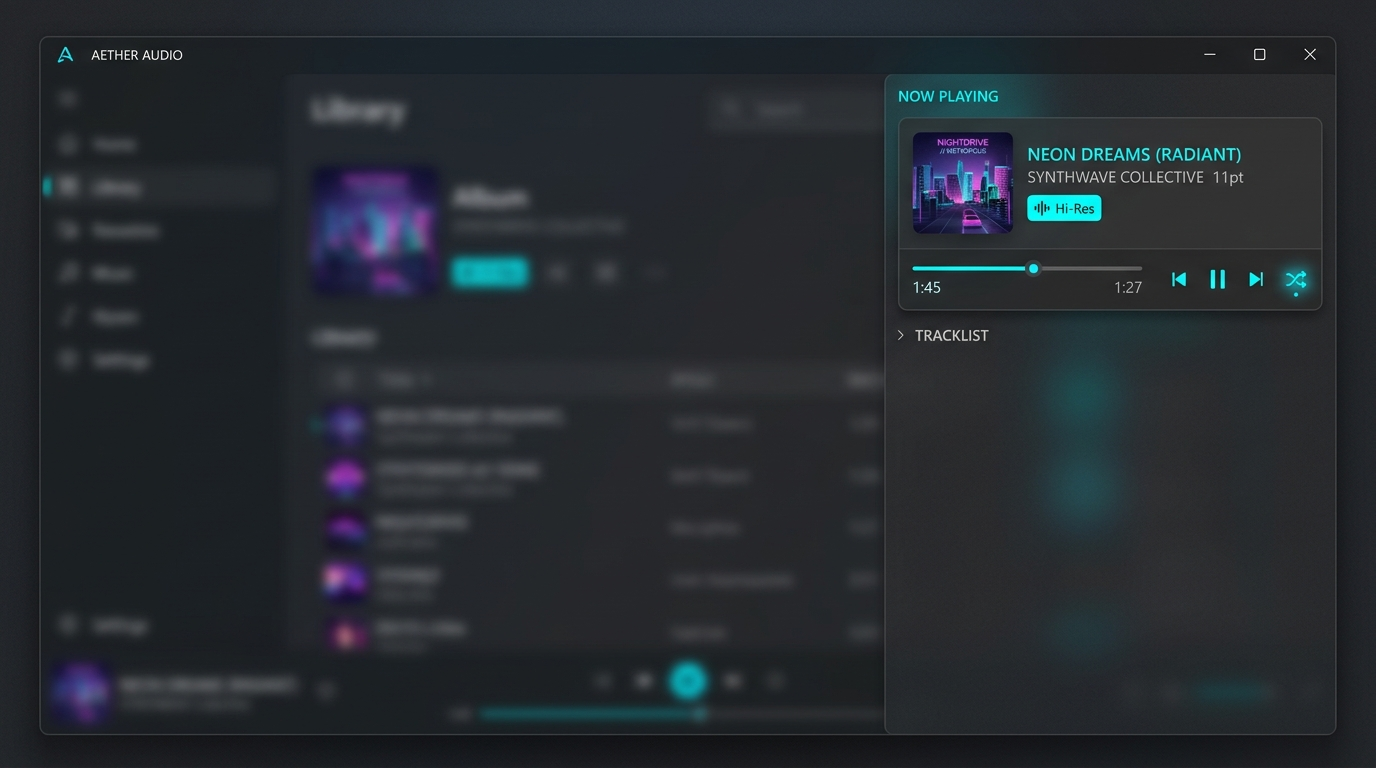
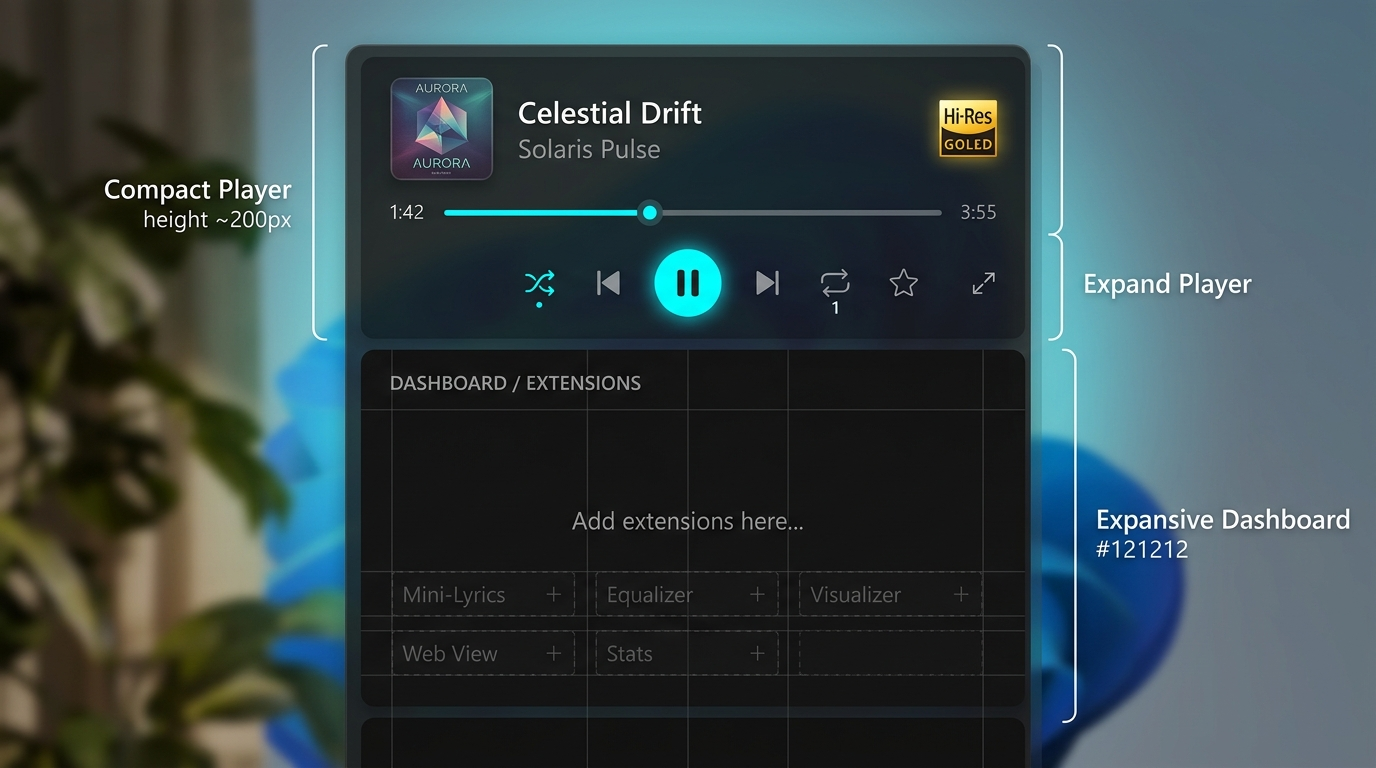
docs: 📝 #122 通常表示を廃止し、最大化⇄最小化の2段階切り替え仕様に更新

diff --git a/設計/機能仕様/右側アルバム情報表示サイズ切り替え機能.md b/設計/機能仕様/右側アルバム情報表示サイズ切り替え機能.md
@@ -1,78 +1,81 @@
 # 右側アルバム情報表示サイズ切り替え機能 仕様書
 
 ## 1. 機能概要
-「右側アルバム情報表示サイズ切り替え機能」は、メイン画面の右側パネルに表示されているアルバム情報・プレイヤー領域の表示サイズを、ユーザーの好みに応じてワンクリックで切り替える機能です。
-ユーザーは「通常表示」「最大化表示（全画面）」「最小化表示（コンパクト）」の3段階を切り替えることで、収録曲リストをじっくり確認したい時や、下半分の拡張タブ（今後追加されるリスニング統計やタグ管理など）を広く使いたい時など、用途に応じた最適なレイアウトで快適に音楽鑑賞・管理を行えます。
+「右側アルバム情報表示サイズ切り替え機能」は、メイン画面の右側パネルに表示されているアルバム情報・プレイヤー領域の表示サイズを、ユーザーの好みに応じてワンクリックで「最大化（全画面）」と「最小化（コンパクト）」の2段階に切り替える機能です。
+ユーザーはアルバム鑑賞に没頭したい時（最大化）と、下部の拡張タブ（今後追加されるリスニング統計やタグ管理など）を広大に使いたい時（最小化）をシンプルなトグル操作で瞬時に切り替え、快適に音楽鑑賞・管理を行えます。
 
 ---
 
 ## 2. ユーザー向け提供機能
 
-### 2.1. 3段階の表示モード切り替え
-右側パネル上部の操作ボタンをクリックすることで、以下の3つの表示モードを切り替えることができます。
+### 2.1. 2段階の表示モード切り替え（2値トグル）
+右側パネルの切り替えボタンをクリックすることで、以下の2つの表示モードを交互に切り替えることができます。
 
-- **通常表示（デフォルト）**
-  - 右側パネルの上半分にアルバム情報（ジャケット画像、タイトル、アーティスト名、品質情報、収録曲リスト、プレイヤーコントロール）を表示し、下半分に拡張情報タブ領域を表示します。
-  - 基本的なアルバム情報の閲覧と、下部の拡張機能の利用をバランスよく両立した標準レイアウトです。
-- **最大化表示（全画面）**
-  - 右側パネルの縦幅全体をアルバム情報・プレイヤー領域として使用します（下半分の拡張タブ領域は非表示・折りたたみ）。
+- **最大化表示（全画面モード）**
+  - 右側パネルの縦幅全体をアルバム情報・プレイヤー領域として使用します（下半分の拡張タブ領域は折りたたまれて非表示）。
   - パネル内は**左右2カラム構成**となり、左側に特大のアルバムアートと各種操作コントロール、右側に縦いっぱいのトラックリストを展開します。
-- **最小化表示（コンパクト）**
-  - 収録曲リストを非表示にし、アルバムアート、曲名・アーティスト名、音質情報（ハイレゾバッジ、ビットレート/サンプリング周波数等）、および基本的な再生コントロールのみを表示します。
-  - プレイヤーとしての最小限の情報を維持したまま高さを極小化し、下半分の拡張タブ領域を最大化して広々と利用できるようにします。
+  - アルバムの世界観に浸りながら全曲を一覧・選曲するのに最適なモードです。
+- **最小化表示（コンパクトモード）**
+  - トラックリストを非表示にし、アルバムアート、曲名・アーティスト名、音質情報（Hi-Resバッジ、ビットレート/サンプリング周波数等）、および楽曲操作コントロールのみを上部にコンパクトに表示します。
+  - プレイヤーとしての操作性や現在曲の視認性を100%維持したまま高さを極小化し、下半分の拡張タブ領域を最大化して広大なダッシュボードとして利用できるようにします。
 
 ---
 
-### 2.2. 最大化表示時の構成要素とプレイヤー機能
-最大化表示時は、画面の広さを活かして以下の要素を左右に効率よく配置します。
+### 2.2. 各表示モードの構成要素
 
-#### ① 左側領域（アートワーク・基本情報・楽曲操作コントロール）
-- **特大アルバムアート**: 正方形アスペクト比を維持した大迫力のジャケット画像。
-- **アルバム名称・アーティスト名称**: 視認性の高いタイポグラフィで表示。
-- **音質・フォーマット詳細情報**: ビットレート、サンプリングレート、フォーマット（MP4, FLAC等）、Hi-Resバッジ等の詳細スペック。
-- **シークバー＆再生時間**:
-  - 現在の再生位置を示すシアンのプログレスバー。
-  - 現在再生時間および総再生時間の表示（例: `00:59 / 04:34`）。
-  - 現在再生中の曲名表示。
-- **プレイヤー操作系（楽曲コントロール群）**:
-  - **シャッフル再生 (`Shuffle`)**: アルバム収録曲の再生順をランダム化。
-  - **前へ (`Previous`)**: 前の曲へスキップ、または曲の先頭へシーク。
-  - **再生 / 一時停止 / 停止 (`Play / Pause / Stop`)**: 楽曲の再生と一時停止・停止。
-  - **次へ (`Next`)**: 次の曲へスキップ。
-  - **リピート再生 (`Repeat`)**: アルバムリピート / 1曲リピートの切り替え。
-  - **再生リストキュー表示 (`Play Queue`)**: 現在の再生キュー一覧を展開・確認。
-  - **プレイリスト追加 (`Add to Playlist` / `＋`)**: 現在再生中の曲を任意のプレイリストへ追加。
-  - **お気に入り追加/解除 (`Favorite` / `♥`)**: 現在再生中の曲をお気に入り（Favorites）へワンクリックで登録/解除。
+#### 🎵 最大化表示時の構成要素（左右2カラム）
+- **① 左側領域（アートワーク・基本情報・楽曲操作コントロール）**:
+  - **特大アルバムアート**: 正方形アスペクト比を維持した大迫力のジャケット画像。
+  - **アルバム名称・アーティスト名称**: 視認性の高いタイポグラフィで表示。
+  - **音質・フォーマット詳細情報**: ビットレート、サンプリングレート、フォーマット（MP4, FLAC等）、Hi-Resバッジ等の詳細スペック。
+  - **シークバー＆再生時間**: シアンのプログレスバー、現在時間 / 総時間（例: `00:59 / 04:34`）、現在再生中曲名。
+  - **プレイヤー操作系（楽曲コントロール群）**:
+    - シャッフル再生 (`Shuffle`)
+    - 前へ (`Previous`)
+    - 再生 / 一時停止 / 停止 (`Play / Pause / Stop`)
+    - 次へ (`Next`)
+    - リピート再生 (`Repeat`)
+    - 再生リストキュー表示 (`Play Queue`)
+    - プレイリスト追加 (`Add to Playlist` / `＋`)
+    - お気に入り追加/解除 (`Favorite` / `♥`)
+- **② 右側領域（トラックリスト・ステータス）**:
+  - **アルバム総トラック数表示**: アルバム内に収録されている全曲数を明記（例: `Tracklist (9 tracks)`）。
+  - **フルハイトトラックリスト**: 縦スクロール対応で全曲を一望できる一覧。
+    - **曲番号**: 2桁ゼロ埋め表記（例: `01.`）。
+    - **曲名**: トラックのタイトル。
+    - **再生時間**: 曲の長さ（例: `03:45`）。
+    - **再生ステータス表示**:
+      - 再生中: 再生中を示すアイコン（`▶` / イコライザー波形）をアクセントカラー（シアン）で点灯表示。
+      - 一時停止中: 停止中を示すアイコン（`⏸`）を表示。
 
-#### ② 右側領域（トラックリスト・ステータス）
-- **アルバム総トラック数表示**: アルバム内に収録されている全曲数を明記（例: `Tracklist (9 tracks)`）。
-- **フルハイトトラックリスト**: 縦スクロール対応で全曲を一望できる一覧。
-  - **曲番号**: 2桁ゼロ埋め表記（例: `01.`）。
-  - **曲名**: トラックのタイトル。
-  - **再生時間**: 曲の長さ（例: `03:45`）。
-  - **再生ステータス表示**:
-    - **再生中**: 再生中を示すアイコン（`▶` / イコライザー波形）をアクセントカラー（シアン）で点灯表示。
-    - **一時停止中**: 停止中を示すアイコン（`⏸`）を表示。
+#### 📦 最小化表示時の構成要素（コンパクトプレイヤー）
+- **上部コンパクトプレイヤー領域**:
+  - **小型アルバムアート**: 角丸サムネイル表示。
+  - **曲名・アーティスト名**: 視認性を保ったテキスト表示。
+  - **音質情報**: Hi-Resバッジ等のコンパクト表示。
+  - **シークバー＆再生時間**: 現在再生時間 / 総時間およびシークバー。
+  - **プレイヤー操作系**: シャッフル、前へ、再生/一時停止、次へ、リピート、お気に入り、最大化トグルボタン。
+- **下部拡張タブ領域**:
+  - 右側パネルの大部分を占有し、今後実装される「リスニング統計」「タグクラウド」などを広大に表示。
 
 ---
 
-### 2.3. 直感的なサイズ切り替えコントロール
-- 右側パネルのヘッダー部（またはコントローラー部）に、現在の状態に応じた切り替えボタン（最大化・最小化・元に戻すアイコン）が配置され、ワンクリックで目的のサイズへスムーズに切り替えることができます。
-- 切り替え時はレイアウトがスムーズに伸縮し、視覚的に違和感のない遷移を実現します。
+### 2.3. 直感的なトグル操作
+- プレイヤーコントロール部（またはヘッダー部）に「最大化/最小化切り替えボタン」が配置されます。
+  - 最大化時: 縮小/最小化アイコン（`🗗` または `▼`）をクリックで最小化へ。
+  - 最小化時: 拡大/最大化アイコン（`⛶` / `🗖` または `▲`）をクリックで最大化へ。
+- 切り替え時はレイアウトがスムーズにアニメーション伸縮し、心地よい操作感を提供します。
 
 ---
 
 ## 3. 利用手順（想定ワークフロー）
 
-### 3.1. 収録曲リストを広く見たい場合（最大化）
-1. 右側パネルが開いている状態で、アルバム情報エリアの「最大化」ボタンをクリックします。
-2. 下半分の領域が折りたたまれ、右側パネル全体に左右2カラムの最大化レイアウトが広がります。
-3. 左側の大きなアルバムアートを見ながら、右側のトラックリストで全曲数や各曲の再生時間を確認し、聴きたい曲を選曲します。
-4. 下部の操作バーから、シャッフル再生やリピート再生、お気に入り登録（♥）、プレイリストへの追加（＋）、キューの確認（≡）をスムーズに行います。
-5. 元のレイアウトに戻したい場合は、「元に戻す（通常表示）」ボタンをクリックします。
+### 3.1. アルバムをじっくり鑑賞・選曲したい場合（最大化モード）
+1. 最小化状態で、コンパクトプレイヤー右端の「最大化」ボタンをクリックします。
+2. 下部領域が折りたたまれ、右側パネル全体に左右2カラムの最大化レイアウトが広がります。
+3. 大迫力のアルバムアートを見ながら、右側のトラックリストで全曲一覧や再生時間を確認し、聴きたい曲を選曲して再生します。
 
-### 3.2. 下側の拡張情報（統計・タグなど）を広く使いたい場合（最小化）
-1. 右側パネルが開いている状態で、アルバム情報エリアの「最小化」ボタンをクリックします。
-2. トラックリストが非表示となり、アルバムアートと音質情報・再生コントロールのみのコンパクトな表示になります。
-3. 下半分の拡張機能エリアが上に大きく広がり、広大なスペースで詳細情報（リスニング統計グラフやタグクラウドなど）を快適に操作・閲覧します。
-4. 再びトラックリストを表示したい場合は、「通常表示」ボタンをクリックして元のサイズに戻します。
+### 3.2. ライブラリ分析・タグ管理を行いたい場合（最小化モード）
+1. 最大化状態で、プレイヤーコントロール部の「最小化」ボタンをクリックします。
+2. トラックリストが折りたたまれ、上部にコンパクトプレイヤー、下部に広大な拡張タブ領域が展開されます。
+3. 音楽を再生・操作しながら、下部の広いスペースでリスニング統計やスマートタグ管理などを快適に操作します。

diff --git a/設計/画面設計/右側アルバム情報表示サイズ切り替え機能/右側アルバム情報表示サイズ切り替え機能UI仕様書.md b/設計/画面設計/右側アルバム情報表示サイズ切り替え機能/右側アルバム情報表示サイズ切り替え機能UI仕様書.md
@@ -1,20 +1,20 @@
 # 右側アルバム情報表示サイズ切り替え機能 UI仕様書
 
 ## 1. 概要
-本画面仕様は、メイン画面右側パネルにおけるアルバム情報・プレイヤー表示領域の表示サイズ（通常・最大化・最小化）を切り替えるUIコンポーネントおよびレイアウト設計を定義します。
-ユーザーがアルバムの楽曲一覧を広く見たい場合や、下半分の拡張タブ領域を広げたい場合に、直感的かつスムーズに切り替えられるUIを提供します。
+本画面仕様は、メイン画面右側パネルにおけるアルバム情報・プレイヤー表示領域の表示サイズを「最大化（全画面）」と「最小化（コンパクト）」の2段階で切り替えるUIコンポーネントおよびレイアウト設計を定義します。
+ユーザーがアルバムの楽曲一覧を広く見たい場合（アルバム鑑賞モード）と、下半分の拡張タブ領域を広げたい場合（ライブラリ管理・分析モード）を、シンプルなトグル操作でシームレスに切り替えられるUIを提供します。
 
 ---
 
 ## 2. 実装イメージ（モックアップ）
 
 ### 2.1. 最大化表示（全画面モード）
-下半分の拡張タブ領域を折りたたみ、右側パネル全体に左右2カラム構成でアルバム情報およびトラックリストを展開した状態です。
+下半分の拡張タブ領域を折りたたみ、右側パネル全体に左右2カラム構成で特大アルバムアートおよびフルハイトトラックリストを展開した状態です。
 
 ![最大化表示イメージ](images/album_fullscreen.jpg)
 
 ### 2.2. 最小化表示（コンパクトモード）
-トラックリストを非表示にし、アルバムアート、曲名・アーティスト名、音質情報（Hi-Resバッジ、ビットレート/サンプリングレート等）、プレイヤーコントロールのみをコンパクトに表示した状態です。
+トラックリストを非表示にし、上部にアルバムアート、曲名・アーティスト名、音質情報（Hi-Resバッジ、ビットレート/サンプリングレート等）、プレイヤーコントロールのみをコンパクトに表示した状態です。下部に広大な拡張タブ領域が確保されます。
 
 ![最小化表示イメージ](images/album_minimized.jpg)
 
@@ -26,56 +26,62 @@
 
 | 表示モード | 構成要素 | 上部プレイヤー領域 | 下部拡張タブ領域 |
 | :--- | :--- | :--- | :--- |
-| **通常表示（デフォルト）** | アルバムアート、タイトル、音質情報、トラックリスト、再生コントロール | 高さ 50% (`1*`) | 高さ 50% (`1*`)（表示） |
 | **最大化表示（全画面）** | **【左カラム】特大アート・アルバム情報・各種操作系**<br>**【右カラム】Track数・曲番号・曲名・再生時間・ステータス** | 高さ 100% (`1*`) | 高さ 0% (`0*` / 非表示) |
 | **最小化表示（コンパクト）** | 小型アルバムアート、タイトル、音質情報、再生コントロール（**トラックリスト非表示**） | 高さ 固定最小値 (`Auto`) | 残り全領域 (`1*` / 最大化) |
 
 ---
 
-### 3.2. 最大化表示時の詳細レイアウト構成
+### 3.2. 詳細レイアウト構成
 
-#### ① 左カラム（アートワーク・基本情報・楽曲操作コントロール）
-*   **アルバムアート**:
-    *   正方形アスペクト比を維持し、左カラムの幅いっぱいに大きく配置（角丸 `CornerRadius="8"`, ドロップシャドウ付与）。
-*   **アルバム情報テキスト**:
-    *   アルバム名称（フォントサイズ 18〜20pt, SemiBold, テキストトリミング対応）
-    *   アーティスト名称（フォントサイズ 13〜14pt, Muted Color）
-*   **音質・フォーマット詳細**:
-    *   ゴールドまたはシアンの角丸バッジでビットレート・サンプリング周波数・コーデックを表示（例: `319kbps/44.1kHz MP4`、`Hi-Res 24bit/96kHz FLAC`）。
-*   **楽曲操作コントロールバー（最下部）**:
-    *   **シャッフルボタン (`🔀`)**: 有効時シアン点灯
-    *   **前へボタン (`⏮`)**
-    *   **再生/一時停止/停止ボタン (`▶` / `⏸` / `⏹`)**: アクセントカラー丸形ボタン
-    *   **次へボタン (`⏭`)**
-    *   **リピートボタン (`🔁`)**: 全曲/1曲/OFFの切り替え（有効時シアン点灯）
-    *   **再生リストキューボタン (`≡`)**: クリックでキューパネル/ダイアログを表示
-    *   **曲名表示 & シークバー**:
-        *   現在再生中トラック名
-        *   現在時間（例: `00:59`） / 総時間（例: `04:34`）
-        *   シアンカラーのプログレスバー（ドラッグ＆ドロップでシーク可能）
-    *   **プレイリスト追加ボタン (`＋`)**: クリックでプレイリスト追加ダイアログを表示
-    *   **お気に入りボタン (`♥`)**: お気に入り登録時ピンク/赤に点灯
+#### 🎵 最大化表示時（左右2カラム構成）
+*   **① 左カラム（アートワーク・基本情報・楽曲操作コントロール）**:
+    *   **アルバムアート**: 正方形アスペクト比を維持し、左カラムの幅いっぱいに大きく配置（角丸 `CornerRadius="8"`, ドロップシャドウ付与）。
+    *   **アルバム情報テキスト**:
+        *   アルバム名称（フォントサイズ 18〜20pt, SemiBold, テキストトリミング対応）
+        *   アーティスト名称（フォントサイズ 13〜14pt, Muted Color）
+    *   **音質・フォーマット詳細**:
+        *   ゴールドまたはシアンの角丸バッジでビットレート・サンプリング周波数・コーデックを表示（例: `319kbps/44.1kHz MP4`、`Hi-Res 24bit/96kHz FLAC`）。
+    *   **楽曲操作コントロールバー（最下部）**:
+        *   **シャッフルボタン (`🔀`)**: 有効時シアン点灯
+        *   **前へボタン (`⏮`)**
+        *   **再生/一時停止/停止ボタン (`▶` / `⏸` / `⏹`)**: アクセントカラー丸形ボタン
+        *   **次へボタン (`⏭`)**
+        *   **リピートボタン (`🔁`)**: 全曲/1曲/OFFの切り替え（有効時シアン点灯）
+        *   **再生リストキューボタン (`≡`)**: クリックでキューパネル/ダイアログを表示
+        *   **曲名表示 & シークバー**: 現在再生中トラック名、現在時間/総時間（例: `00:59 / 04:34`）、シアンのプログレスバー
+        *   **プレイリスト追加ボタン (`＋`)**: クリックでプレイリスト追加ダイアログを表示
+        *   **お気に入りボタン (`♥`)**: お気に入り登録時ピンク/赤に点灯
+        *   **最小化トグルボタン (`🗗` / `▼`)**: クリックで最小化モードへ切り替え
 
-#### ② 右カラム（トラックリスト・ステータス）
-*   **トラックリストヘッダー**:
-    *   アルバムの総曲数を明記（例: `Tracklist (9 tracks)`、フォントサイズ 16pt, SemiBold）。
-*   **トラック行（ListBoxItem / DataTemplate）**:
-    *   **曲番号**: `01.`, `02.` 形式の2桁ゼロ埋め表示（固定幅、Muted Color）。
-    *   **曲名**: トラックタイトル（左揃え、可変幅、ホバー時にハイライト）。
-    *   **再生時間**: `03:45` 形式の曲長表示（右揃え）。
-    *   **再生ステータスアイコン**:
-        *   **再生中**: 行の先頭（または曲番号の左）にシアン色に発光する再生三角アイコン（`▶` または波形アニメーション）を表示。
-        *   **一時停止中**: 一時停止アイコン（`⏸`）を表示。
-        *   **非再生時**: アイコンは非表示（またはホバー時のみ薄く再生ボタンを表示）。
+*   **② 右カラム（トラックリスト・ステータス）**:
+    *   **トラックリストヘッダー**: アルバムの総曲数を明記（例: `Tracklist (9 tracks)`、フォントサイズ 16pt, SemiBold）。
+    *   **トラック行（ListBoxItem / DataTemplate）**:
+        *   **曲番号**: `01.`, `02.` 形式の2桁ゼロ埋め表示（固定幅、Muted Color）。
+        *   **曲名**: トラックタイトル（左揃え、可変幅、ホバー時にハイライト）。
+        *   **再生時間**: `03:45` 形式の曲長表示（右揃え）。
+        *   **再生ステータスアイコン**:
+            *   **再生中**: 行の先頭（または曲番号の左）にシアン色に発光する再生三角アイコン（`▶` または波形アニメーション）を表示。
+            *   **一時停止中**: 一時停止アイコン（`⏸`）を表示。
+            *   **非再生時**: アイコンは非表示（またはホバー時のみ薄く再生ボタンを表示）。
+
+#### 📦 最小化表示時（コンパクトプレイヤー構成）
+*   **上部コンパクトプレイヤー領域**:
+    *   アルバムアートサムネイル（角丸 40x40 〜 60x60px）
+    *   曲名・アーティスト名
+    *   Hi-Resバッジ等の音質情報
+    *   シークバー＆再生時間表示
+    *   操作ボタン群（シャッフル、前へ、再生/一時停止、次へ、リピート、お気に入り）
+    *   **最大化トグルボタン (`⛶` / `▲`)**: クリックで最大化モードへ切り替え
+*   **下部拡張タブ領域**:
+    *   右側パネルの残り領域全体（縦幅いっぱい）に拡張機能（リスニング統計・タグクラウド等）を展開。
 
 ---
 
 ### 3.3. モード切替ボタンスタイル
-- **配置位置**: アルバムヘッダー上部（曲名・アーティスト名の右側、またはプレイヤーコントロール付近）
+- **配置位置**: プレイヤーコントロールバーの右端、またはヘッダー右上
 - **アイコン構成**:
-  - 通常時 → 最大化ボタン（`⛶` / 拡張アイコン）および 最小化ボタン（`—` / 折りたたみアイコン）
-  - 最大化時 → 通常復帰ボタン（`🗗` / 縮小アイコン）
-  - 最小化時 → 通常復帰ボタン（`🗖` / 展開アイコン）
+  - 最大化時 → 縮小アイコン（`🗗` または `▼`）
+  - 最小化時 → 拡大アイコン（`⛶` または `▲`）
 - **カラーパレット**:
   - 通常時: `#808080` (Muted)
   - ホバー時: `#00FFFF` (Neon Cyan)
@@ -87,11 +93,11 @@
 
 ### 4.1. モード切り替えアクション
 - **ボタンクリック時**:
-  - ボタンを押下すると、ViewModelの表示モード状態（`FullScreen` / `Normal` / `Minimized`）が更新されます。
+  - ボタンを押下すると、ViewModelの表示モード状態（`IsAlbumViewMaximized` bool値）が切り替わります。
   - `GridLengthAnimation` または `Storyboard` を用いて、上部・下部領域のサイズがスムーズ（約 0.3秒、`CubicEaseOut`）に伸縮します。
 - **トラックリストのフェード/スライドイン**:
-  - 最小化モードへの移行時は、トラックリストがフェードアウトした後に領域が縮小します。
-  - 通常・最大化モードへの移行時は、領域が展開された後にトラックリストがフェードインします。
+  - 最小化モードへの移行時は、右カラムのトラックリストがフェードアウトした後に下部拡張領域が展開されます。
+  - 最大化モードへの移行時は、下部拡張領域が折りたたまれた後に左右2カラムの最大化レイアウトがフェードインします。
 
 ---
 
